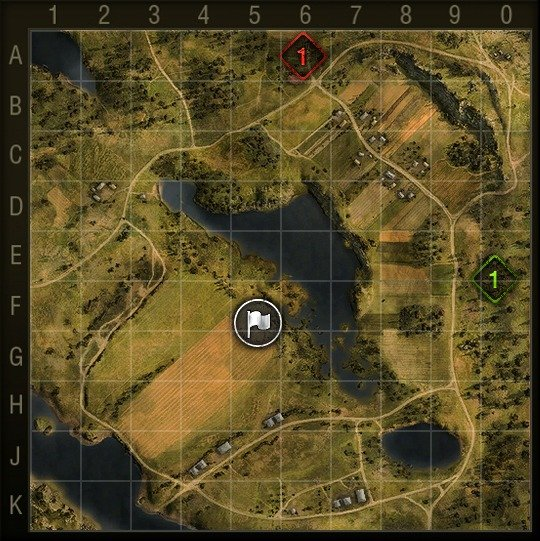
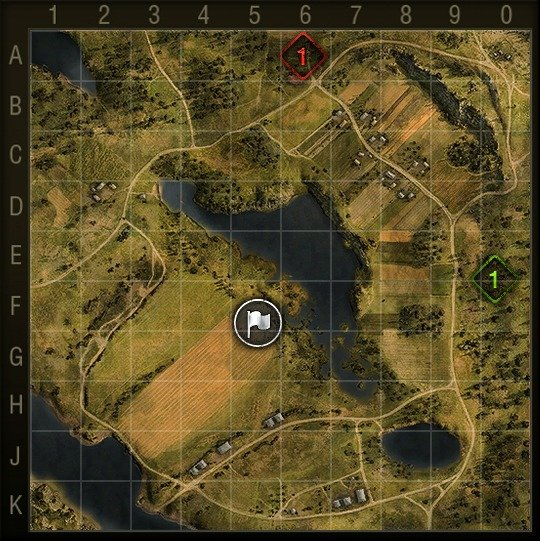
update maps for v0.9.4

diff --git a/index.html b/index.html
@@ -1,6 +1,6 @@
 <html>
 <body>
-<h1>World of Tanks (version 0.9.3) minimaps</h1>
+<h1>World of Tanks (version 0.9.4) minimaps</h1>
 
 <p>Maps generated using <a href=https://github.com/Kuitsi/WotMiniMapMaker>WotMiniMapMaker</a>.<br />
 Team 1 = green, Team 2 = red.</p>
@@ -62,6 +62,7 @@ Team 1 = green, Team 2 = red.</p>
 <a href="maps/siegfried_line_encounter.jpg">siegfried_line_encounter.jpg</a>
 <a href="maps/siegfried_line.jpg">siegfried_line.jpg</a>
 <a href="maps/south_coast.jpg">south_coast.jpg</a>
+<a href="maps/stalingrad.jpg">stalingrad.jpg</a>
 <a href="maps/steppes_encounter.jpg">steppes_encounter.jpg</a>
 <a href="maps/steppes.jpg">steppes.jpg</a>
 <a href="maps/swamp.jpg">swamp.jpg</a>
